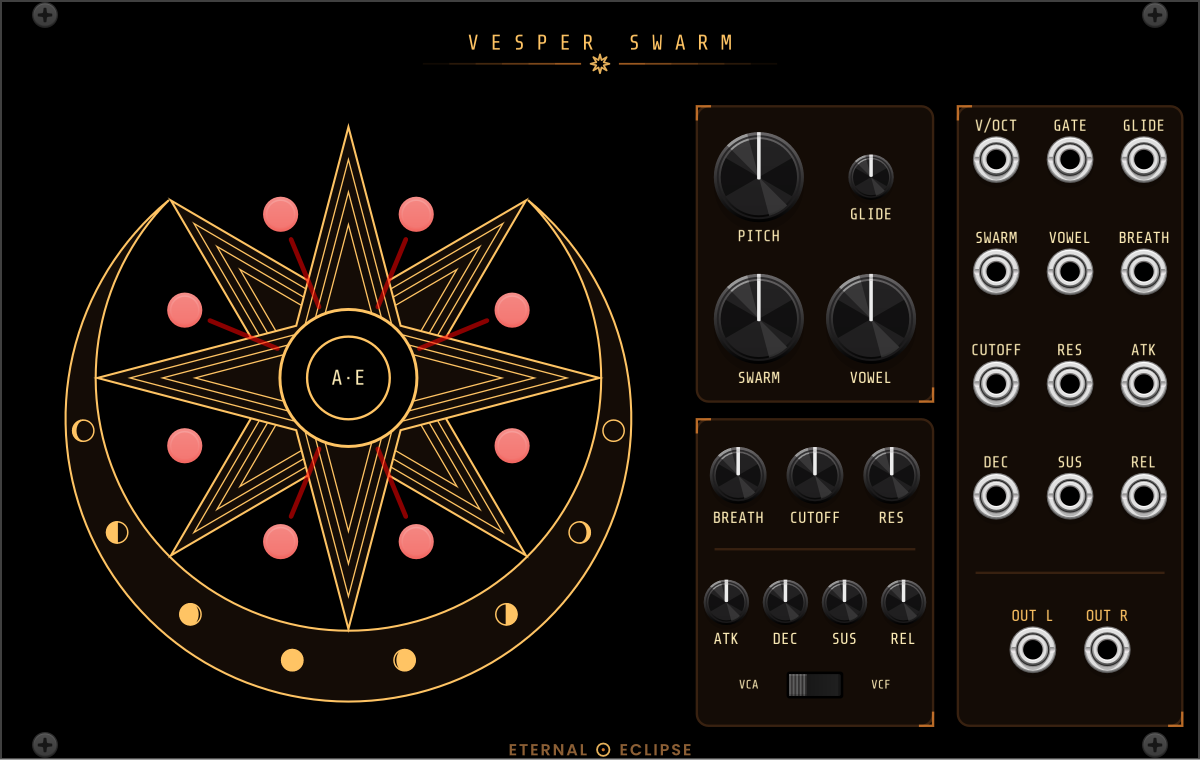
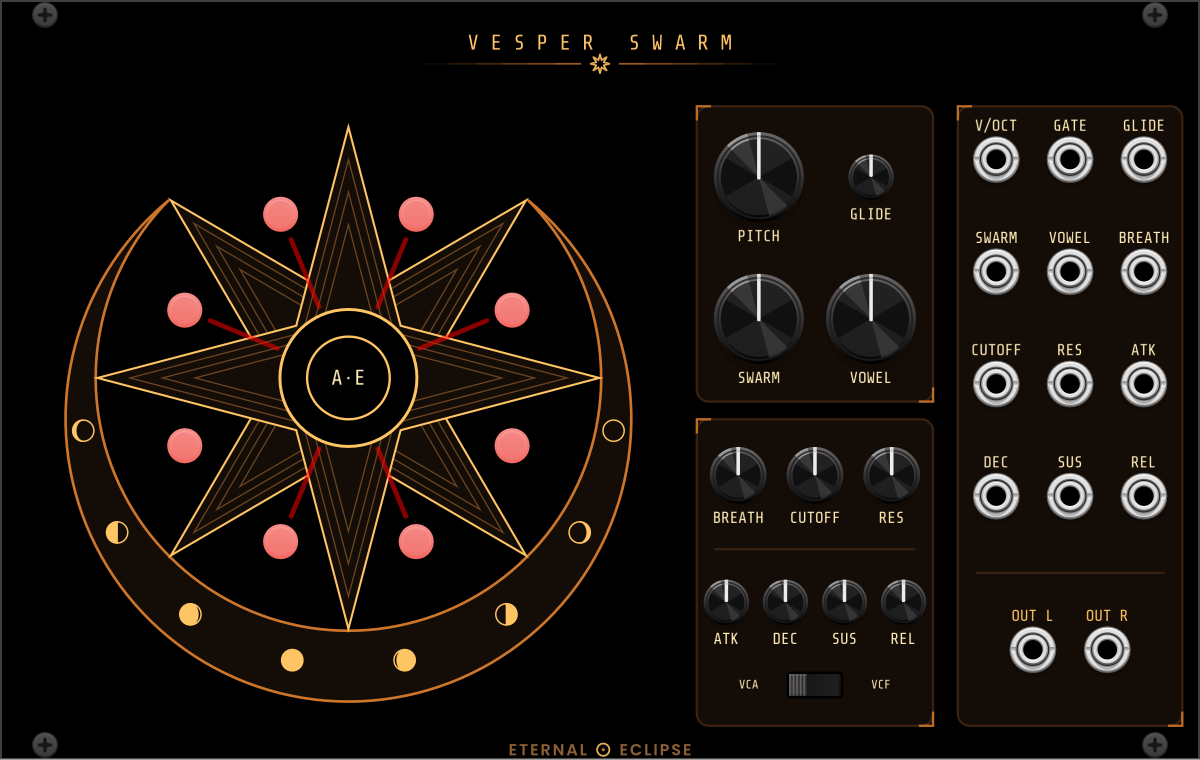
Vesper Swarm: the moon in copper, the star's bands in line brown (OMN-106)
Colours borrowed from the Conclave's Circle: the crescent's outline takes
the rings' structural copper (#cd762b at 0.45 mm) and the three inner
bands of each four-pointed star take the line brown of the hexagram at
the Circle's heart (#6b4522). The star's edges, the bullseye and the
phases stay title gold, so the phases read as gold seals on a copper
circle. README panel image re-rendered.

diff --git a/tools/gen_vesper_panel.py b/tools/gen_vesper_panel.py
@@ -30,6 +30,11 @@ STAR_CX, STAR_CY, STAR_R = 59.0, 64.0, 42.5
 STAR_INNER = 0.42 * STAR_R      # radius of the notches of the eight-point silhouette
 STAR_INSETS = (1.4, 2.8, 4.2)   # mm, the nested bands of each four-pointed star
 STAR_EDGE_W, STAR_BAND_W = 0.35, 0.22  # mm; much under 0.25 fades at 100% zoom
+# Colours, as the Conclave's Circle: title gold for the star's edges, seals
+# and phases; structural copper for the moon's outline (the Circle's rings);
+# line brown for the star's inner bands (the hexagram at the Circle's heart)
+GOLD, COPPER, LINE = "#ffc464", "#cd762b", "#6b4522"
+MOON_W = 0.45                   # the Circle's ring weight
 
 # The crescent under the star: a thin moon cradling it, centred on the
 # star's axis. Its inner edge is the circle through the star's tips, so
@@ -226,7 +231,7 @@ svg.append(glyph)
 
 svg.append("\n  <!-- The crescent moon the star rests in, its points touching the inner\n"
            "       edge, the eight phases carved along it -->\n")
-svg.append(f'  <path d="{crescent_path()}" fill="#140c06" stroke="#ffc464" stroke-width="{STAR_EDGE_W}" stroke-linejoin="round"/>\n')
+svg.append(f'  <path d="{crescent_path()}" fill="#140c06" stroke="{COPPER}" stroke-width="{MOON_W}" stroke-linejoin="round"/>\n')
 svg.append(moon_phases())
 
 svg.append("\n  <!-- The star of Ishtar: the eight singers stand between its points.\n"
@@ -234,7 +239,7 @@ svg.append("\n  <!-- The star of Ishtar: the eight singers stand between its poi
 for rot in (-45.0, -90.0):
     svg.append(f'  <path d="{path_of(star_polygon(rot))}" fill="#140c06" stroke="#ffc464" stroke-width="{STAR_EDGE_W}" stroke-linejoin="miter" stroke-miterlimit="16"/>\n')
     for d in STAR_INSETS:
-        svg.append(f'  <path d="{path_of(star_polygon(rot, d))}" fill="none" stroke="#ffc464" stroke-width="{STAR_BAND_W}" stroke-linejoin="miter" stroke-miterlimit="16"/>\n')
+        svg.append(f'  <path d="{path_of(star_polygon(rot, d))}" fill="none" stroke="{LINE}" stroke-width="{STAR_BAND_W}" stroke-linejoin="miter" stroke-miterlimit="16"/>\n')
 svg.append(f'  <circle cx="{f(STAR_CX)}" cy="{f(STAR_CY)}" r="11.6" fill="#000000" stroke="#ffc464" stroke-width="0.5"/>\n')
 svg.append(f'  <circle cx="{f(STAR_CX)}" cy="{f(STAR_CY)}" r="7.0" fill="none" stroke="#ffc464" stroke-width="0.4"/>\n')
 
